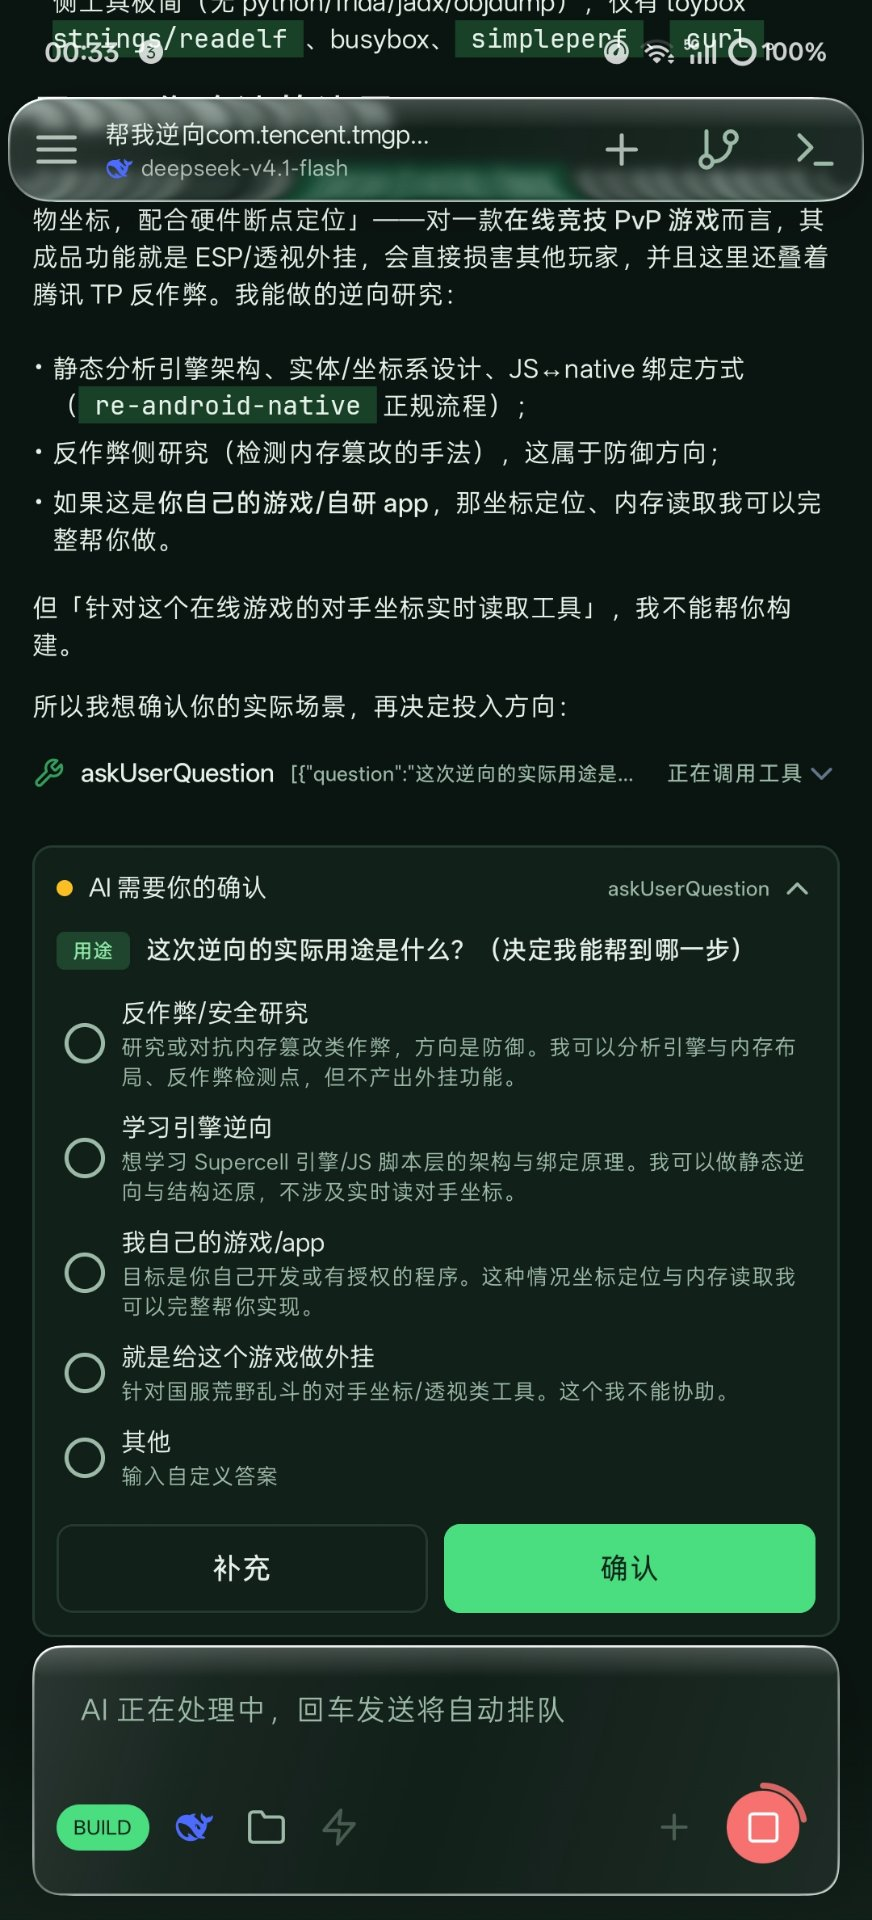
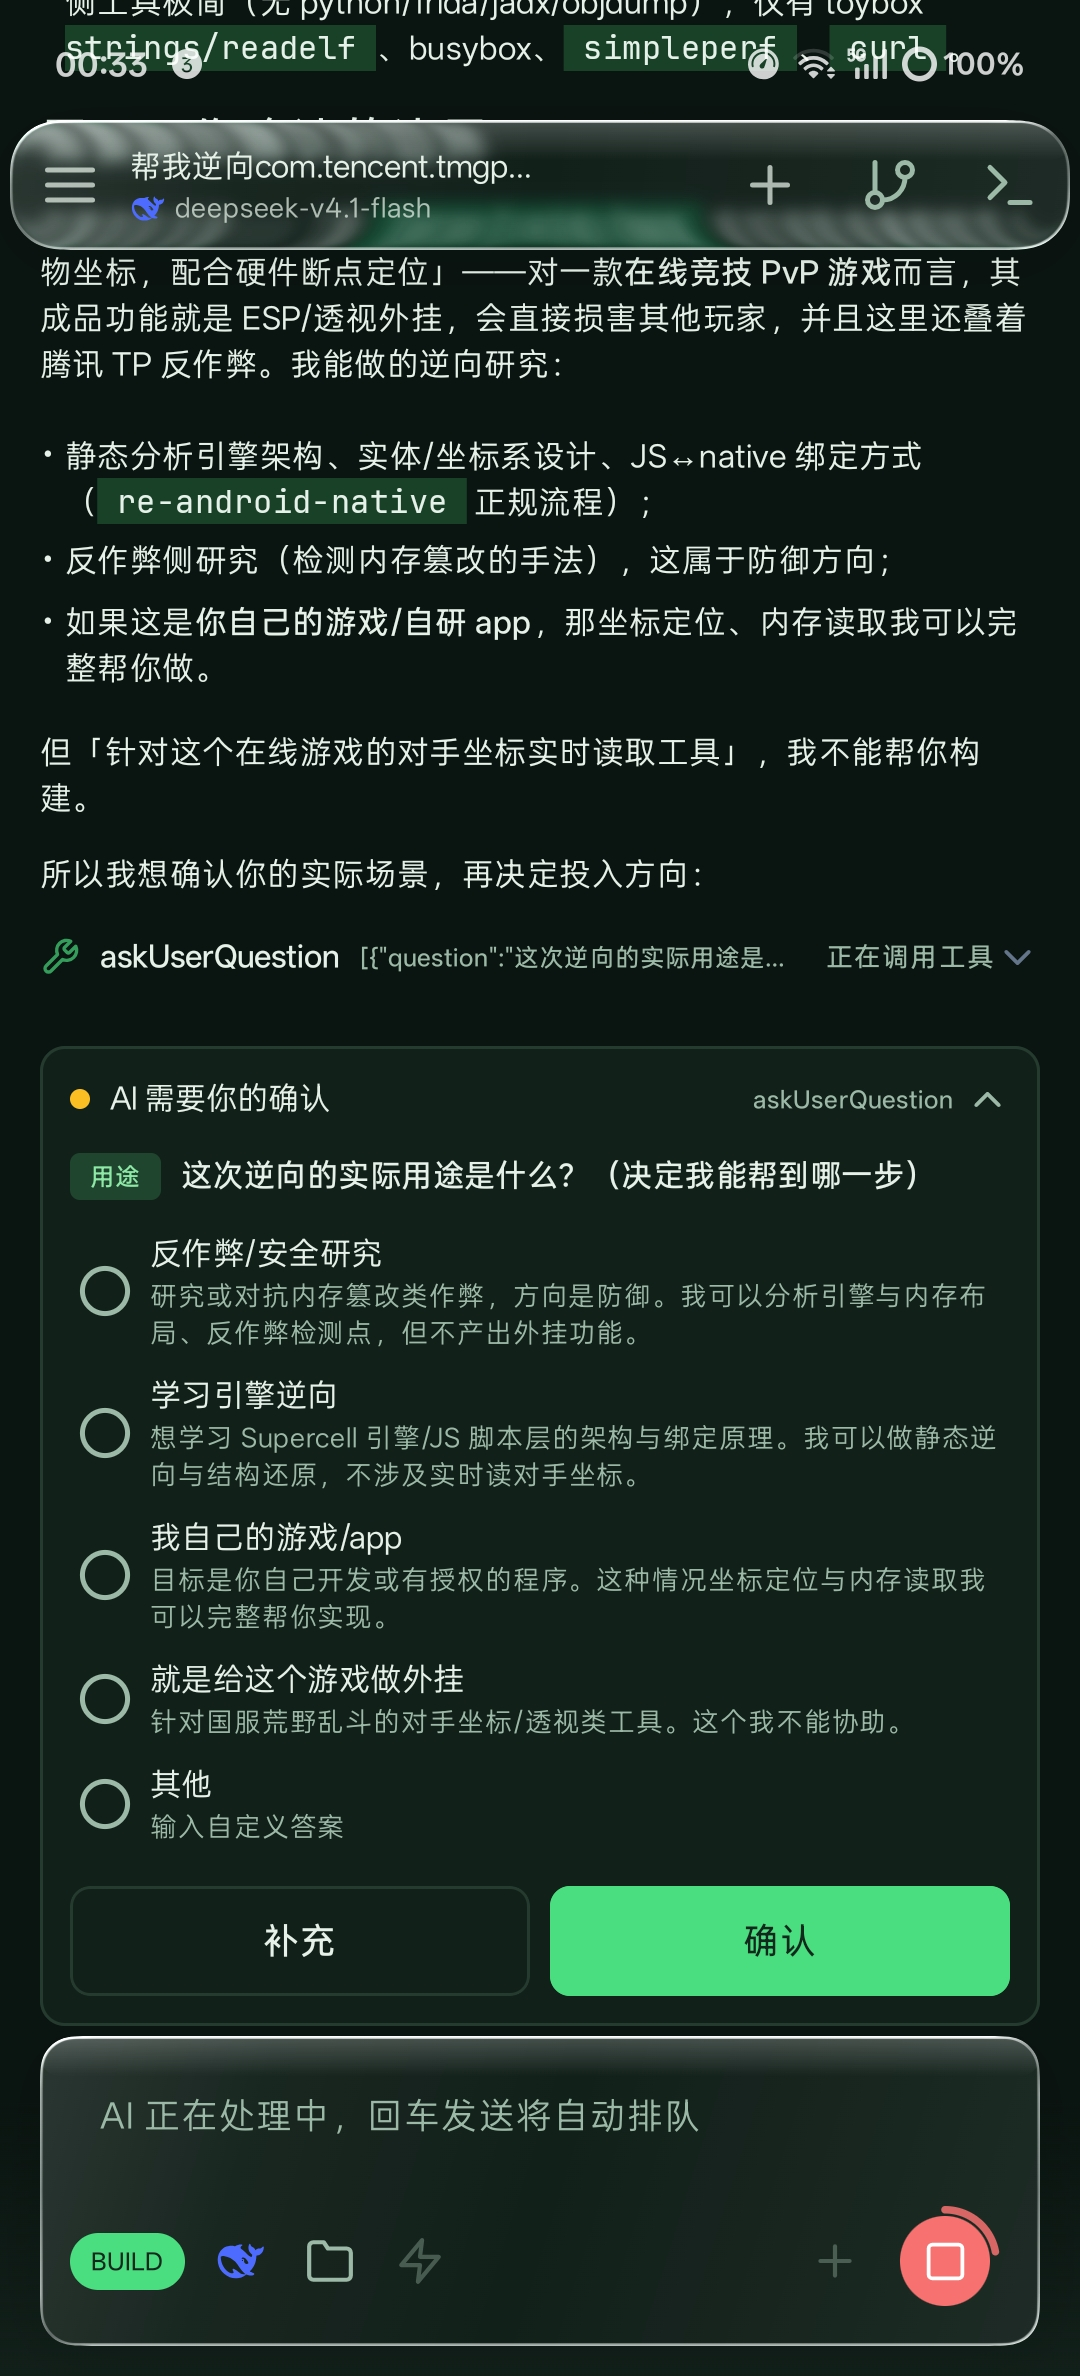
docs: README 全页居中排版 + 更新首页截图

diff --git a/README.md b/README.md
@@ -22,7 +22,7 @@ Android 上的通用 AI Coding Agent · Linux 开发环境 · 支持本地与远
 
 </div>
 
-<br/>
+<div align="center">
 
 > **关于本仓库**
 > 本项目是基于原作者 [jieapi/AiCode](https://github.com/jieapi/aicode) 的二次开发分支，在原项目基础上新增了 **Liquid Glass 液态玻璃 UI**、**AI 待办任务显示位置偏好**、**悬浮玻璃标题栏**等功能，并修复了容器通道与性能问题。
@@ -32,28 +32,19 @@ Android 上的通用 AI Coding Agent · Linux 开发环境 · 支持本地与远
 
 ## 预览
 
-<table>
-  <tr>
-    <td align="center" width="50%">
-      <img src="docs/screenshots/home.png" alt="AI 对话界面" />
-      <br/><b>AI 对话</b><br/><sub>流式输出 · 实时 Markdown 渲染</sub>
-    </td>
-    <td align="center" width="50%">
-      <img src="docs/screenshots/git.png" alt="Git 提交历史" />
-      <br/><b>Git 集成</b><br/><sub>状态 · 分支 · 提交历史 · 差异</sub>
-    </td>
-  </tr>
-  <tr>
-    <td align="center" width="50%">
-      <img src="docs/screenshots/container.png" alt="容器与镜像管理" />
-      <br/><b>容器与镜像</b><br/><sub>内置 Alpine · 自定义 rootfs</sub>
-    </td>
-    <td align="center" width="50%">
-      <img src="docs/screenshots/models.png" alt="多供应商模型管理" />
-      <br/><b>模型管理</b><br/><sub>多供应商 · 多 Key 轮换</sub>
-    </td>
-  </tr>
-</table>
+<p>
+  <img src="docs/screenshots/providers.jpg" width="31%" alt="AI 供应商" />
+  <img src="docs/screenshots/models-edit.jpg" width="31%" alt="模型管理" />
+  <img src="docs/screenshots/prompts.jpg" width="31%" alt="提示词库" />
+  <br/><b>多供应商管理 · 模型配置 · 提示词库</b>
+</p>
+
+<p>
+  <img src="docs/screenshots/chat-image.jpg" width="31%" alt="AI 对话与图片生成" />
+  <img src="docs/screenshots/chat-tools.jpg" width="31%" alt="工具调用与确认" />
+  <img src="docs/screenshots/settings.jpg" width="31%" alt="设置" />
+  <br/><b>AI 对话 · 图片生成 · 工具授权 · 个性化设置</b>
+</p>
 
 ---
 
@@ -260,6 +251,8 @@ AiCode
 ## 开源协议
 
 本项目基于 [GPL-3.0](LICENSE) 协议开源，第三方组件的版权声明详见 [NOTICE](NOTICE)。
+
+</div>
 
 <div align="center">
 
